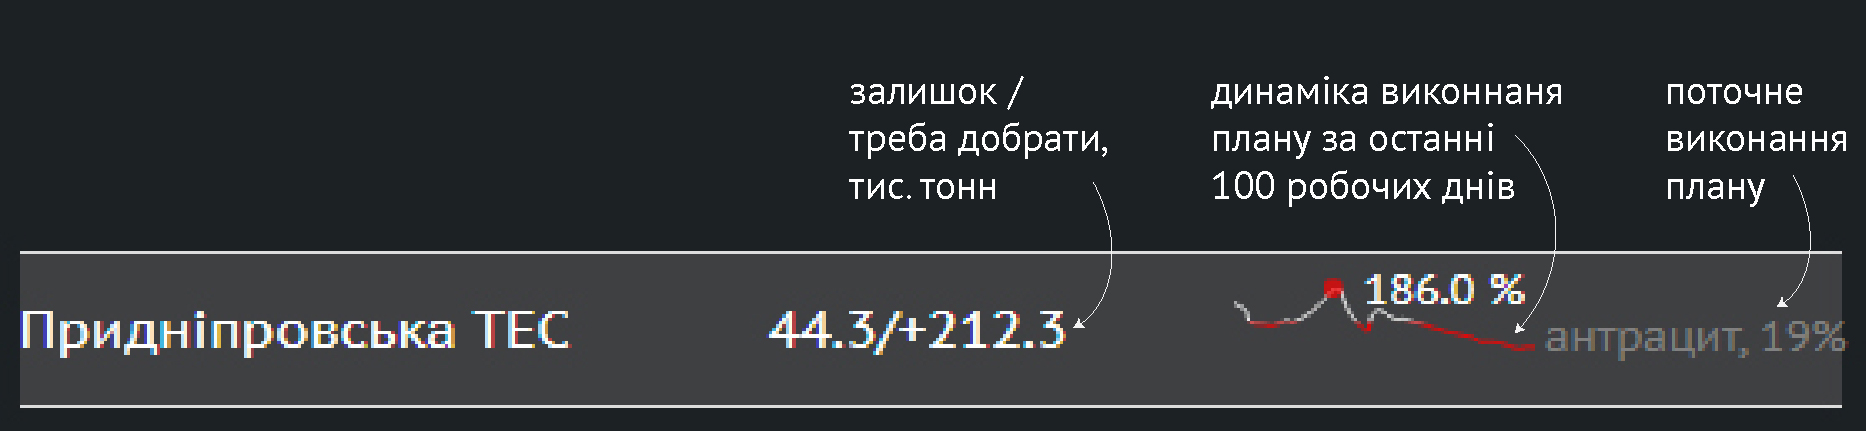
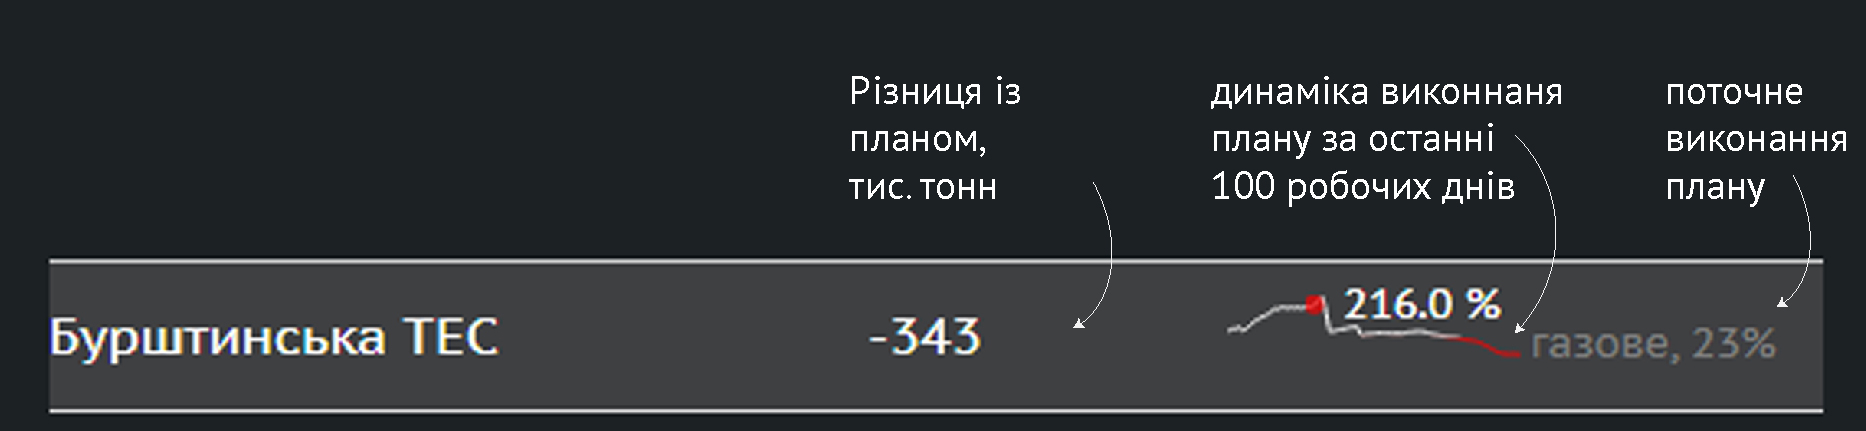
new data

diff --git a/index.html b/index.html
@@ -42,7 +42,7 @@
         <div class="col-lg-2 col-md-2 col-sm-2  col-xs-4">
             <a href="http://texty.org.ua"><img class="img-responsive logo" src="img/logo.png"></a>
         </div>
-        <div class="col-lg-1 col-lg-offset-9 col-md-1 col-md-offset-9 col-sm-2 col-sm-offset-8 col-xs-2 col-xs-offset-6">
+        <div class="col-lg-1 col-lg-offset-10 col-md-1 col-md-offset-10 col-sm-2 col-sm-offset-9 col-xs-2 col-xs-offset-6">
             <div class="social-icons">
                 <a href="https://twitter.com/intent/tweet?text=http://texty.org.ua/d/static/2017/TES-map/"
                    class="share-btn"><i
@@ -99,10 +99,11 @@
 <img class="gide" src="img/gide-02.jpg">
 
 </div>
-            <p class="click"><i>Клікніть на станцію, аби дізнатись про неї більше</i></p>
+         <p class="click"><i>Клікніть на станцію, аби дізнатись про неї більше</i></p>
 
          <div id="table"></div>
-            <p class="click"><i>Дані: Міненерговугілля</i></p>
+
+         <p class="click"><i>Дані: Міненерговугілля</i></p>
 
          </div>
 

diff --git a/js/table.js b/js/table.js
@@ -1,5 +1,6 @@
 var file = "https://docs.google.com/spreadsheets/d/e/2PACX-1vR4d-loqjlGmXlhs5ncxzYLPPrk5NblgJAUJwhBOI2gjJ7u4KrIi-Bbp69V-5b5X0FfLm4D4ECgc4OQ/pub?output=csv";
 
+
 d3.csv(file, function(error, data) {
     if (error) throw error;
 
@@ -27,7 +28,7 @@ d3.csv(file, function(error, data) {
     var titles = d3.keys(data[0]);
     var headers = table.append('thead').append('tr')
         .selectAll('th')
-        .data(["Станція", "Залишок, тис.тонн", "Виконання плану"]).enter()
+        .data(["Станція", "Різниця, тис. тонн", "Виконання плану"]).enter()
         // .data(titles).enter()
         .append('th')
         .text(function (d) {
@@ -67,7 +68,7 @@ d3.csv(file, function(error, data) {
         })
         .enter()
         .append('td')
-        .filter(function (d, i) { return i === 0 || i === 1 || i === 2 ;}) //return only 0,1,4 "columns"
+        .filter(function (d, i) { return i === 0 || i === 1 || i === 2;}) //return only 0,1,4 "columns"
         .append('div')
         .attr('id', function (d) {
             if (d.value.length < 2 && d.value !== 0)
